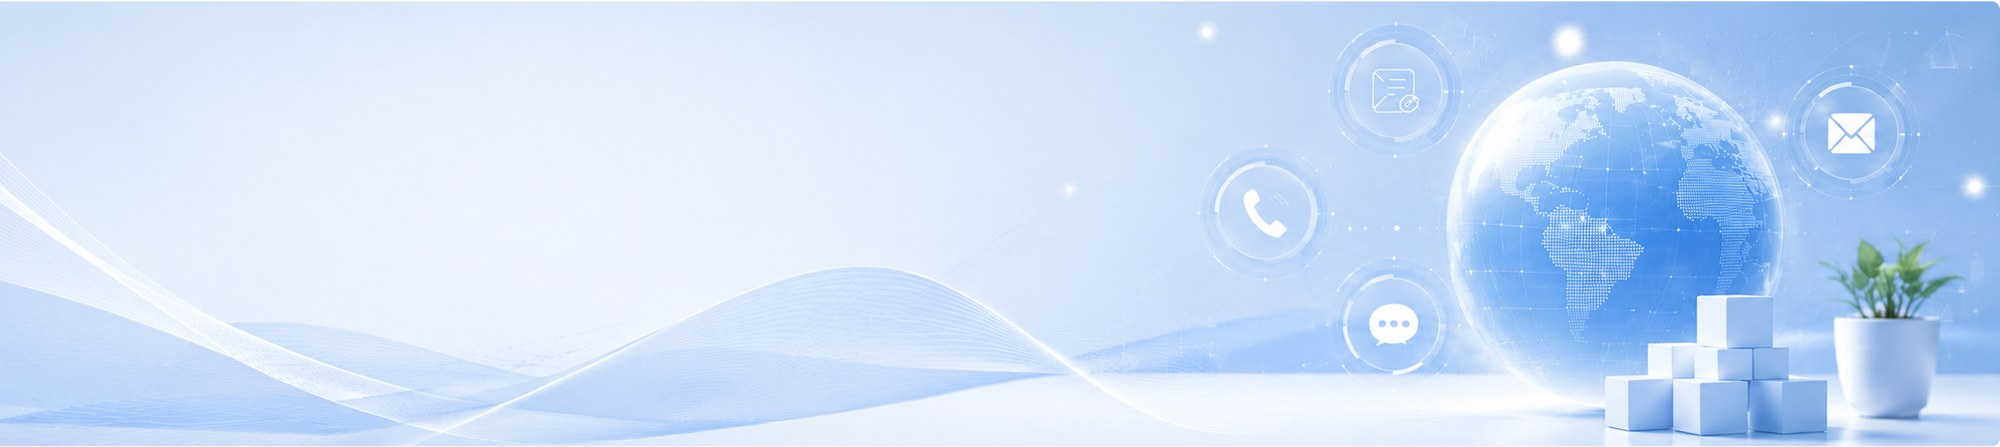
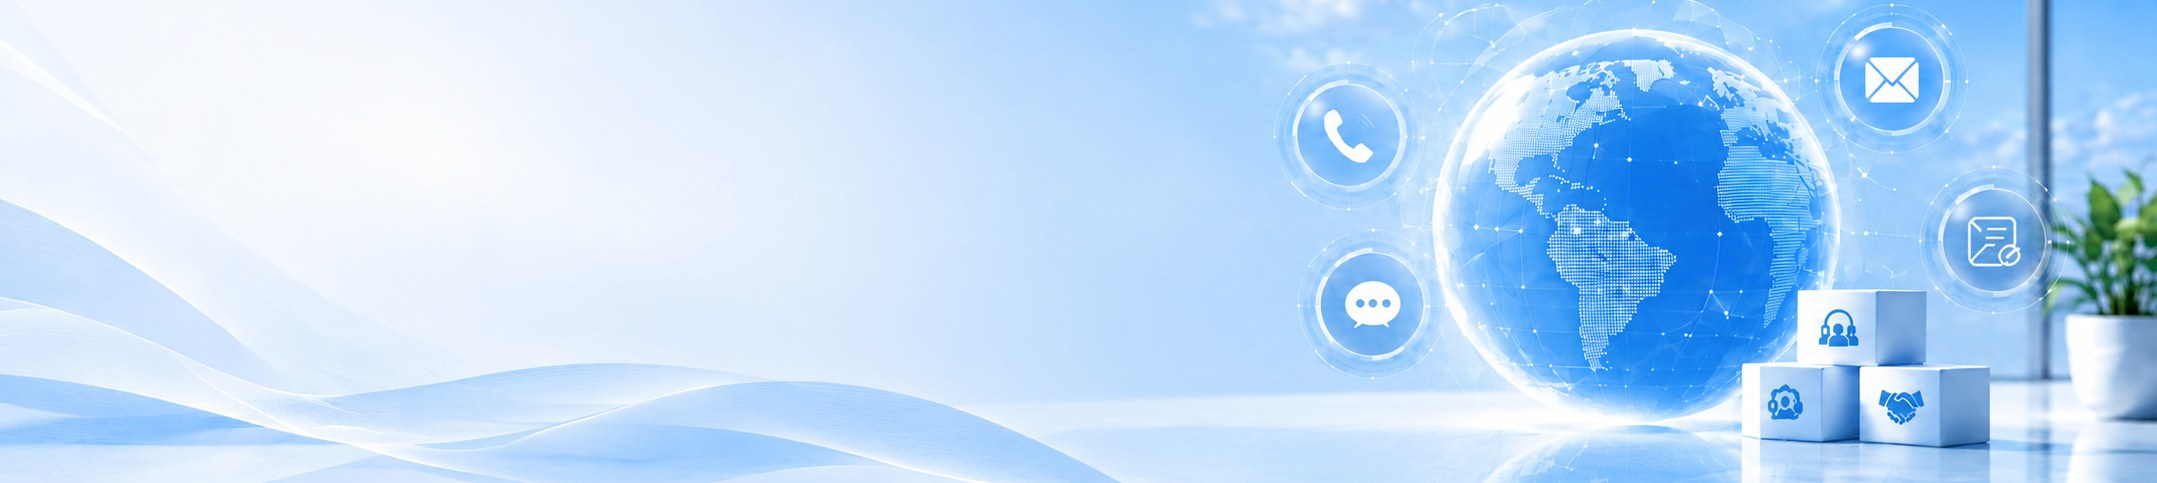
고객지원 히어로 배경을 새 사진(지구본·고객지원 아이콘)으로 교체(기존 비율 크롭). page-hero-support.jpg ?v=20260913

diff --git a/support.html b/support.html
@@ -64,7 +64,7 @@
   </header>
 
   <section class="page-banner page-banner--overlay">
-    <img class="page-banner__bg" src="assets/images/site/page-hero-support.jpg?v=20260715-4" alt="고객지원 — 전화·채팅·이메일 문의 안내">
+    <img class="page-banner__bg" src="assets/images/site/page-hero-support.jpg?v=20260913" alt="고객지원 — 전화·채팅·이메일 문의 안내">
     <div class="gas-banner">
       <div class="gas-banner__wrap">
         <div class="gas-banner__col">
